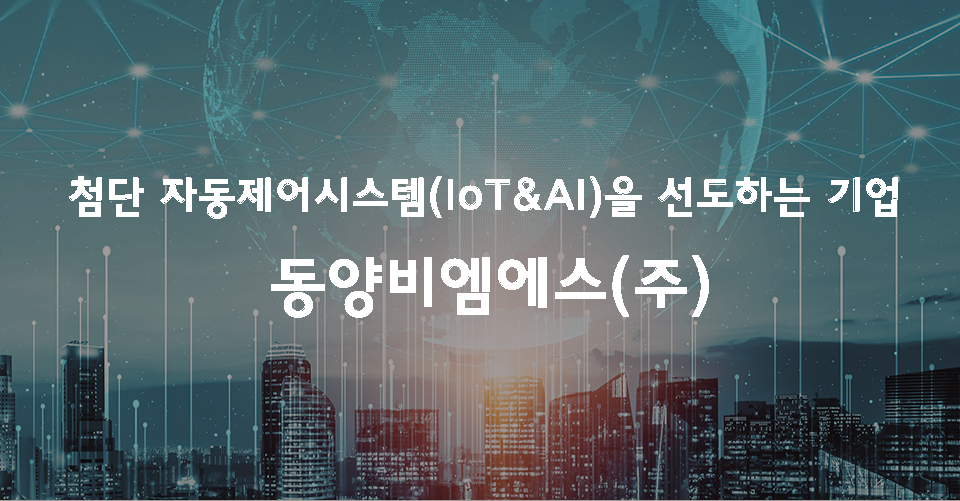
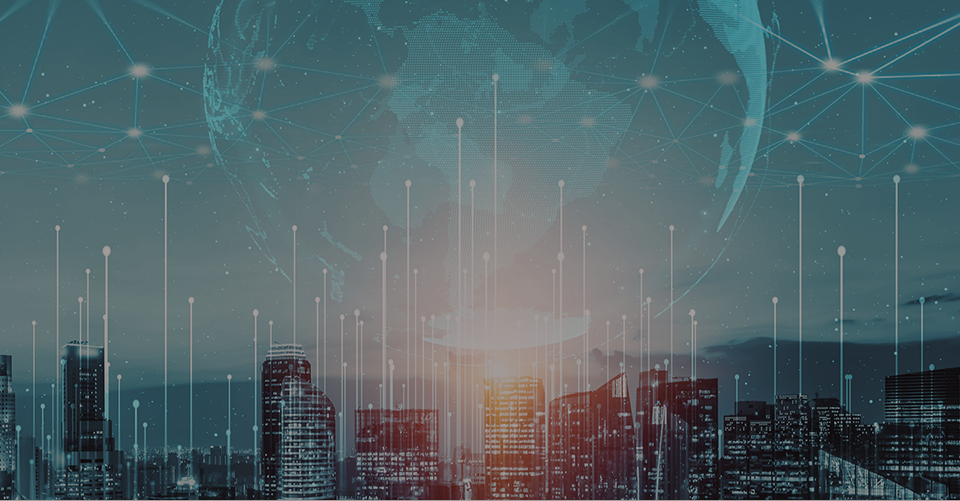
feat: 찾아오시는 길 이미지 임시 추가

Changed region(s): [[0.0625, 0.3293, 0.9375, 0.4491], [0.2812, 0.509, 0.75, 0.6287]]

diff --git a/src/frontend/src/views/company-about/Contact.vue b/src/frontend/src/views/company-about/Contact.vue
@@ -1,35 +1,37 @@
 <template>
   <v-main>
     <ImageFrame :frame="frame" />
-    <v-container>
-      <v-card class="card-wrap" width="70%" elevation="0">
-        <v-card-title>
-          <v-icon large class="mdi-icon" color="green">
-            {{ mdiMapMarker }}
-          </v-icon>
-          회사 주소
-        </v-card-title>
-        <v-card-text class="card-text">
-          서울시 구로구 디지털로 285, 701호 (구로동, 에이스트윈타워1차)
-        </v-card-text>
-        <v-card-subtitle>
-          TEL : 02-6347-8330 <br />
-          FAX : 02-6347-8336
-        </v-card-subtitle>
-        <v-card-title>
-          <v-icon large class="mdi-icon" color="blue">{{
-            mdiEmailOutline
-          }}</v-icon>
-          메일 주소
-        </v-card-title>
-        <v-card-text class="card-text">
-          tybms@chol.com
-        </v-card-text>
-        <v-card-text class="card-text">
-          <v-icon small>{{ mdiCheck }}</v-icon>
-          전자세금계산서 발행 시 사업자등록증을 보내주세요.
-        </v-card-text>
-      </v-card>
+    <v-container class="wrap">
+      <img src="@/assets/images/KakaoTalk_20210524_155557093.png" />
+
+      <!--      <v-card class="card-wrap" width="70%" elevation="0">-->
+<!--        <v-card-title>-->
+<!--          <v-icon large class="mdi-icon" color="green">-->
+<!--            {{ mdiMapMarker }}-->
+<!--          </v-icon>-->
+<!--          회사 주소-->
+<!--        </v-card-title>-->
+<!--        <v-card-text class="card-text">-->
+<!--          서울시 구로구 디지털로 285, 701호 (구로동, 에이스트윈타워1차)-->
+<!--        </v-card-text>-->
+<!--        <v-card-subtitle>-->
+<!--          TEL : 02-6347-8330 <br />-->
+<!--          FAX : 02-6347-8336-->
+<!--        </v-card-subtitle>-->
+<!--        <v-card-title>-->
+<!--          <v-icon large class="mdi-icon" color="blue">{{-->
+<!--            mdiEmailOutline-->
+<!--          }}</v-icon>-->
+<!--          메일 주소-->
+<!--        </v-card-title>-->
+<!--        <v-card-text class="card-text">-->
+<!--          tybms@chol.com-->
+<!--        </v-card-text>-->
+<!--        <v-card-text class="card-text">-->
+<!--          <v-icon small>{{ mdiCheck }}</v-icon>-->
+<!--          전자세금계산서 발행 시 사업자등록증을 보내주세요.-->
+<!--        </v-card-text>-->
+<!--      </v-card>-->
     </v-container>
   </v-main>
 </template>
@@ -59,6 +61,15 @@ export default {
 };
 </script>
 <style scoped>
+  .wrap {
+    margin-top: 30px;
+    margin-bottom: 30px;
+    width: 100%;
+  }
+  img {
+    max-width: 100%;
+    height: auto;
+  }
 .mdi-icon {
   margin-right: 1vw;
 }

diff --git a/src/frontend/src/components/ImageFrame.vue b/src/frontend/src/components/ImageFrame.vue
@@ -35,7 +35,7 @@ source,
 img {
   position: absolute;
   width: 100%;
-  height: 400px;
+  height: 300px;
   object-fit: cover;
   z-index: 1;
   /*opacity: 0.8;*/
@@ -48,7 +48,7 @@ span {
 }
 .image-container {
   max-width: 100%;
-  height: 400px;
+  height: 300px;
   overflow: hidden;
   display: flex;
   flex-direction: column;
@@ -71,7 +71,7 @@ span {
   picture,
   source,
   img {
-    height: 200px;
+    height: 150px;
   }
 
   .content {
